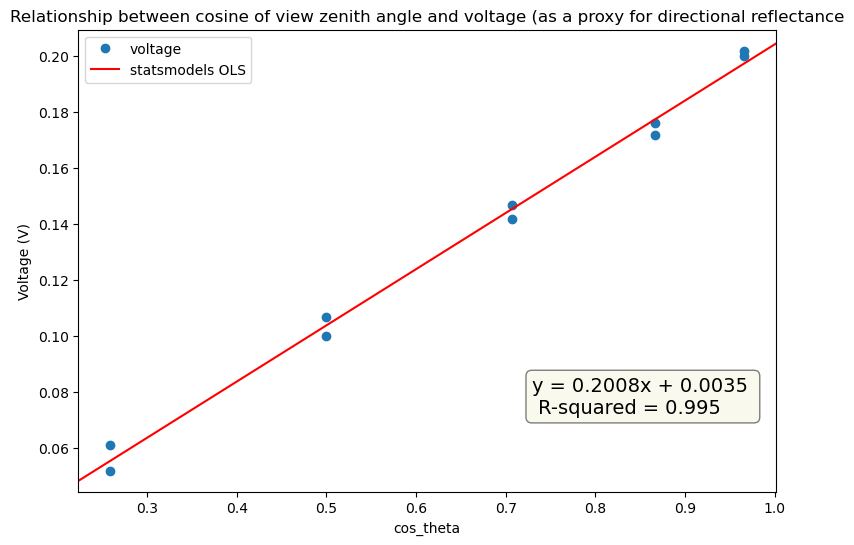
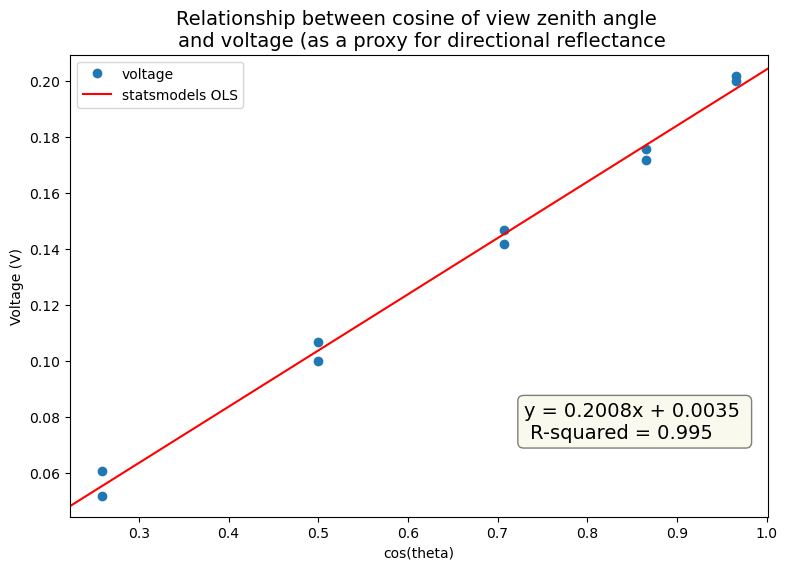
Update documentation

diff --git a/searchindex.js b/searchindex.js
@@ -1,1 +1,1 @@
-Search.setIndex({docnames:["intro","lab1","problem_set_1"],envversion:{"sphinx.domains.c":2,"sphinx.domains.changeset":1,"sphinx.domains.citation":1,"sphinx.domains.cpp":5,"sphinx.domains.index":1,"sphinx.domains.javascript":2,"sphinx.domains.math":2,"sphinx.domains.python":3,"sphinx.domains.rst":2,"sphinx.domains.std":2,"sphinx.ext.intersphinx":1,sphinx:56},filenames:["intro.md","lab1.ipynb","problem_set_1.ipynb"],objects:{},objnames:{},objtypes:{},terms:{"0":[1,2],"00":[],"000":1,"000000":1,"0001":2,"003481":1,"0035":1,"004":1,"005":1,"006":1,"007":1,"008":1,"01":[1,2],"010":1,"012":1,"017":1,"019":1,"02":2,"025":1,"03":1,"041":[1,2],"04116471848333":2,"044":1,"047198":1,"048":1,"05":[],"050":1,"052":1,"054321770295687744":2,"061":1,"066":1,"07":1,"08":2,"081":1,"083":1,"092":1,"093":1,"094":1,"095":1,"097":1,"098":1,"099":1,"0x7f1bf84b7ee0":[],"0x7f2415273040":1,"0x7f41754d3010":[],"0x7f5ecc253ee0":[],"10":[1,2],"100":[1,2],"100e":2,"1011":2,"1016":2,"1023":2,"103":1,"105":2,"107":1,"11":[1,2],"110":2,"111":1,"1150":2,"1150e":2,"12":2,"123":1,"125":1,"129":1,"13":2,"1316":2,"1333333333333333":2,"134":1,"135":1,"136":2,"1361":2,"136e12":2,"137":1,"14":[1,2],"1407":2,"142":1,"146":1,"147":1,"148":1,"1496":1,"15":[1,2],"150":1,"153":1,"154":1,"1541":1,"157":1,"159":1,"16":2,"162":1,"164":1,"165":1,"169":1,"17":2,"170":1,"172":[1,2],"176":1,"18":2,"180":1,"185":1,"186":1,"189":1,"192":1,"1e":2,"1e3":2,"20":[1,2],"200":1,"200763":1,"2008":1,"2008x":1,"2011":2,"202":1,"2022":[0,1,2],"205":2,"2058823529411763":2,"207":1,"209":1,"20e":1,"21":2,"213":1,"216":1,"22":2,"23":2,"232":1,"24365317128634":2,"245":1,"25":1,"254":1,"256":1,"2567107790346":2,"258819":1,"26":[1,2],"261":2,"261799":1,"27":[],"273":1,"28":2,"2861294661369":2,"294":1,"295":1,"296":1,"2pm":2,"30":1,"308997":1,"31":[1,2],"312":1,"34":[],"360":2,"365":2,"366666666666666":2,"371":1,"38":1,"39":2,"395":2,"3e":2,"3e8":2,"400e":2,"41":1,"411":1,"45":[1,2],"465":1,"47":2,"471e11":2,"479999999999999":2,"48":2,"496":2,"496e":2,"496e11":2,"500000":1,"51":2,"52":2,"521e11":2,"523599":1,"525013":2,"53":2,"57":[],"58":2,"60":[1,2],"609":2,"609e":2,"611":1,"6273857859353":2,"63":2,"65":1,"6541557351024":2,"6682229417395344":2,"668222941739536":2,"673":1,"68":2,"691":1,"7":2,"707107":1,"71":1,"715438793193172":2,"75":1,"764":2,"777":2,"78":[1,2],"785398":1,"79":1,"7cm":2,"8":[1,2],"80":2,"81":2,"8123738496865657":2,"827640809423416e":2,"83160146544657":2,"86":2,"866025":1,"87":2,"871":2,"877159276307219":2,"880":1,"88605907946422":2,"8e":2,"9":[1,2],"90":1,"948":1,"958750209019716":2,"965926":1,"975":1,"986":1,"994":1,"995":1,"\u03bcm":2,"const":1,"do":2,"float":2,"import":1,"return":2,"var":1,No:1,The:[1,2],Will:2,ab:2,abline_plot:1,abov:2,account:2,aco:2,across:1,add_const:1,add_subplot:1,adj:1,after:2,afternoon:2,ahead:2,aic:1,all:1,alpha:1,alwai:2,am:2,amount:2,an:1,angl:1,answer:2,anywai:1,aphelion_d:2,api:1,appear:1,appli:1,ar:1,aren:2,around:2,assum:[1,2],atan:2,ax:1,axi:1,axvlin:1,back:1,backscatt:1,bbox:1,bbox_to_anchor:1,becaus:[1,2],been:2,befor:2,beig:1,bera:1,best:1,beta:2,beta_gr:2,between:[1,2],bic:1,blue:1,both:1,box:1,boxstyl:1,brdf:1,btw:2,calc_azimuth:2,calc_declin:2,calc_irradi:2,calc_zenith:2,calc_zenith_slop:2,calcul:[0,2],can:2,caus:1,cell:1,center:1,centimet:2,centimeter2:2,central_meridian:2,chang:1,ci:1,cm:2,co:[1,2],coef:1,color:1,concat:1,cond:1,consid:1,construct:1,continu:1,convert:2,correct:2,correctli:1,cos_theta:[1,2],cos_theta_slop:2,cosin:[1,2],covari:1,cycl:2,d:2,d_aphelion:2,d_perihelion:2,dai:2,datafram:1,date:[1,2],datetim:2,decim:2,declin:2,def:[1,2],defin:1,deg:[1,2],degre:[1,2],delta:2,delta_oct7:2,dennison:0,dep:1,depend:1,dept:0,depth:1,df:1,dict:1,differ:[1,2],displai:1,distanc:2,doi:2,don:2,drop:1,dst:2,dt:2,dtype:1,durbin:1,e:2,e_10am:2,e_2pm:2,e_2pm_slop:2,e_nought:2,e_s_mean:2,e_solar_noon:2,e_theta:2,earth:2,em:2,emma:[0,1,2],emmamarshal:1,env:1,eqat:2,eqn:2,equat:2,equation_of_tim:2,eric:1,err:1,error:1,et:2,et_oct7:2,et_tim:2,exemplifi:1,exposur:2,f:1,face:2,facecolor:1,fall:0,fig:1,figsiz:1,figur:[1,2],find:2,first:2,fit:1,fix:1,float64:1,follow:1,fontsiz:1,format:[1,2],found:2,frequenc:2,from:[1,2],g:1,galleri:1,geog:0,give:2,gold:1,good:1,goodwin:1,gr_azimuth_6pm:2,gr_theta_10a:2,gr_zenith_6pm:2,graphic:1,gravel:1,gravel_source30:1,gravel_source45:1,green:[1,2],group:1,handl:2,have:2,head:1,higher:1,home:1,hour:2,hour_angl:2,hour_angle_10a:2,hour_angle_2p:2,hour_angle_tim:2,how:1,hr:2,html:1,http:1,hz:2,i:[1,2],incorrect:2,increas:1,independ:1,input_quant:2,isotrop:1,j:2,j_oct7:2,jarqu:1,jb:1,kopp:2,kurtosi:1,kurtosistest:1,kyli:1,l_lambda:2,l_v:2,label:1,lambda:[1,2],lambda_1:2,lambda_2:2,lambda_gr:2,lambert:2,law:2,lean:2,least:1,lectur:0,legend:1,len:1,lib:1,light:1,light_zenith:1,likelihood:1,linear:1,linestyl:1,linewidth:1,linregress:1,loc:[1,2],log:1,longitude_adjust:2,longitude_offset:2,lower:1,m:2,marker:1,markers:1,marshal:[0,1,2],materi:1,math:[1,2],matplotlib:1,matrix:1,max_theta:1,mean:2,meter2:2,meter3:2,meter:2,method:1,microsecond:2,min:2,min_theta:1,miniconda3:1,minimum:2,minuet:2,minut:2,model:1,model_result:1,mon:1,more:1,most:1,n:[1,2],name:2,nan:1,nanomet:2,nearli:1,need:2,neg:2,nm:2,none:1,nonrobust:1,note:[0,1],now:2,np:[1,2],numpi:[1,2],o:1,observ:1,occur:2,octob:2,ol:1,omnibu:1,onli:1,optic:1,orang:[],org:1,out:2,overal:1,p:1,packag:1,panda:1,paper:2,param:1,pattern:1,pd:1,perihelion_d:2,phi:2,phi_2pm:2,phi_deg:2,phi_oct7_solar_noon:2,phil:0,pi:2,pint:2,place:1,placing_text_box:1,plai:2,plot:1,plt:1,polar:1,polar_plot_one_source_angl:1,posit:[1,2],predictor:1,print:2,prob:[1,2],produc:1,profil:1,project:1,prop:1,proxi:1,purpl:1,py:1,pyplot:1,python3:1,python:2,quantiti:2,quit:2,r:1,radian:[1,2],radianc:2,radiant_flux:2,random:1,rang:1,read:0,recip:1,red:1,ree:1,region:2,regplot:1,regress:1,regressionplot:1,rel:1,relationship:1,remot:0,residu:1,result:1,right:1,river:2,rock:1,rocks_source30:1,rocks_source45:1,rotat:1,rough:1,round:[1,2],row:1,s:[0,1],same:2,sand:1,sand_source30:1,sand_source45:1,scatter:1,scenario:1,sci_not:2,scipi:1,seaborn:1,sec:2,second:2,sens:0,sep:1,set:0,set_label_coord:1,set_rlim:1,set_theta_direct:1,set_theta_zero_loc:1,set_thetamax:1,set_thetamin:1,set_titl:1,set_xlabel:1,set_ylabel:1,shade:1,should:2,show:1,sigma:2,sigma_aphelion:2,sigma_perihelion:2,signal:1,similar:1,sin:[1,2],site:1,skew:1,slightli:1,slope:2,sm:1,smooth:1,sn:1,so:[1,2],solv:2,some:2,sourc:1,source_30:1,source_45:1,source_zenith_angl:1,sp:1,specifi:1,spectral:2,spectrum:2,specular:1,squar:1,sr:2,standard:1,stat:1,statist:1,statsmodel:1,std:1,steradian:2,str:2,subplot:1,summari:1,sunspot:2,surfac:[1,2],swir:2,t:[1,2],tabl:1,table3:1,take:2,tan_phi:2,target:2,taught:0,text:1,than:1,theta:[1,2],theta_10am:2,theta_2pm:2,theta_deg:2,theta_oct7_solar_noon:2,think:1,thz:2,time:[1,2],time_diff_10a:2,time_diff_2p:2,timedelta:2,toa_:2,top:1,toward:1,transax:1,transform:1,type:1,um:2,unit:2,unitregistri:2,univers:0,upper:1,ureg:2,us:2,userwarn:1,utah:0,v1:2,v:[1,2],v_2:2,valid:1,variabl:1,ve:2,veri:1,verticalalign:1,view:1,view_zenith:1,view_zeniths_source30:1,view_zeniths_source45:1,voltag:1,volum:1,w:[1,2],want:2,warn:1,water:1,water_source30:1,water_source45:1,watson:1,wavelength:[1,2],wavenumb:2,we:2,when:[1,2],which:2,within:[1,2],wm2:2,wm:2,worksheet:1,x:1,xaxi:1,xxxx:2,y:1,yaxi:1,year:2,yet:2,ymax:1,ymin:1,zenith:1,zone:2},titles:["Advanced Optics coursework","Lab 1","Problem set 1"],titleterms:{"1":[1,2],"1011m":2,"2":[1,2],"3":[1,2],"30":2,"4":[1,2],"471":2,"5":[1,2],"521":2,"6":[1,2],"7":1,"function":2,"import":2,It:2,advanc:0,angl:2,aphelion:2,azimuth:2,b:2,base:2,big:2,br:2,c:2,coursework:0,data:1,defin:2,direct:1,e0:2,exoatmospher:2,flux:2,hint:2,irradi:2,lab:1,noon:2,number:2,optic:0,packag:2,perihelion:2,pm:2,problem:2,question:1,radiant:2,ratio:2,read:1,reflect:1,s:2,set:2,solar:2,sun:2,thi:2,valu:2,watt:2,what:2,x:2,zenith:2,zentih:2}})
+Search.setIndex({docnames:["intro","lab1","problem_set_1"],envversion:{"sphinx.domains.c":2,"sphinx.domains.changeset":1,"sphinx.domains.citation":1,"sphinx.domains.cpp":5,"sphinx.domains.index":1,"sphinx.domains.javascript":2,"sphinx.domains.math":2,"sphinx.domains.python":3,"sphinx.domains.rst":2,"sphinx.domains.std":2,"sphinx.ext.intersphinx":1,sphinx:56},filenames:["intro.md","lab1.ipynb","problem_set_1.ipynb"],objects:{},objnames:{},objtypes:{},terms:{"0":[1,2],"00":[],"000":1,"000000":1,"0001":2,"003481":1,"0035":1,"004":1,"005":1,"006":1,"007":1,"008":1,"01":[1,2],"010":1,"012":1,"017":1,"019":1,"02":2,"025":1,"03":[],"041":[1,2],"04116471848333":2,"044":1,"047198":1,"048":1,"05":[],"050":1,"052":1,"054321770295687744":2,"061":1,"066":1,"07":1,"08":2,"081":1,"083":1,"092":1,"093":1,"094":1,"095":1,"097":1,"098":1,"099":1,"0x7f13e880f310":1,"0x7f1bf84b7ee0":[],"0x7f2415273040":[],"0x7f41754d3010":[],"0x7f5ecc253ee0":[],"10":[1,2],"100":[1,2],"100e":2,"1011":2,"1016":2,"1023":2,"103":1,"105":2,"107":1,"11":[1,2],"110":2,"111":1,"1150":2,"1150e":2,"12":2,"123":1,"125":1,"129":1,"13":[1,2],"1316":2,"1333333333333333":2,"134":1,"135":1,"136":2,"1361":2,"136e12":2,"137":1,"14":[1,2],"1407":2,"142":1,"146":1,"147":1,"148":1,"1496":1,"15":[1,2],"150":1,"153":1,"154":1,"1541":1,"157":1,"159":1,"16":2,"162":1,"164":1,"165":1,"169":1,"17":2,"170":1,"172":[1,2],"176":1,"18":2,"180":1,"185":1,"186":1,"189":1,"192":1,"1e":2,"1e3":2,"20":[1,2],"200":1,"200763":1,"2008":1,"2008x":1,"2011":2,"202":1,"2022":[0,1,2],"205":2,"2058823529411763":2,"207":1,"209":1,"20e":1,"21":2,"213":1,"216":1,"22":2,"23":[1,2],"232":1,"24365317128634":2,"245":1,"25":1,"254":1,"256":1,"2567107790346":2,"258819":1,"26":[1,2],"261":2,"261799":1,"27":[],"273":1,"28":2,"2861294661369":2,"294":1,"295":1,"296":1,"2pm":2,"30":1,"308997":1,"31":2,"312":1,"34":[],"360":2,"365":2,"366666666666666":2,"371":1,"38":1,"39":2,"395":2,"3e":2,"3e8":2,"400e":2,"41":1,"411":1,"45":[1,2],"465":1,"47":2,"471e11":2,"479999999999999":2,"48":2,"496":2,"496e":2,"496e11":2,"500000":1,"51":2,"52":2,"521e11":2,"523599":1,"525013":2,"53":2,"57":1,"58":2,"60":[1,2],"609":2,"609e":2,"611":1,"6273857859353":2,"63":2,"65":1,"6541557351024":2,"6682229417395344":2,"668222941739536":2,"673":1,"68":2,"691":1,"7":2,"707107":1,"71":1,"715438793193172":2,"75":1,"764":2,"777":2,"78":[1,2],"785398":1,"79":1,"7cm":2,"8":[1,2],"80":2,"81":2,"8123738496865657":2,"827640809423416e":2,"83160146544657":2,"86":2,"866025":1,"87":2,"871":2,"877159276307219":2,"880":1,"88605907946422":2,"8e":2,"9":[1,2],"90":1,"948":1,"958750209019716":2,"965926":1,"975":1,"986":1,"994":1,"995":1,"\u03bcm":2,"const":1,"do":2,"float":2,"import":1,"return":2,"var":1,No:1,The:[1,2],Will:2,ab:2,abline_plot:1,abov:2,account:2,aco:2,across:1,add_const:1,add_subplot:1,adj:1,after:2,afternoon:2,ahead:2,aic:1,all:1,alpha:1,alwai:2,am:2,amount:2,an:1,angl:1,answer:2,anywai:1,aphelion_d:2,api:1,appear:1,appli:1,ar:1,aren:2,around:2,assum:[1,2],atan:2,ax:1,axi:1,axvlin:1,back:1,backscatt:1,bbox:1,bbox_to_anchor:1,becaus:[1,2],been:2,befor:2,beig:1,bera:1,best:1,beta:2,beta_gr:2,between:[1,2],bic:1,blue:1,both:1,box:1,boxstyl:1,brdf:1,btw:2,calc_azimuth:2,calc_declin:2,calc_irradi:2,calc_zenith:2,calc_zenith_slop:2,calcul:[0,2],can:2,caus:1,cell:1,center:1,centimet:2,centimeter2:2,central_meridian:2,chang:1,ci:1,cm:2,co:[1,2],coef:1,color:1,concat:1,cond:1,consid:1,construct:1,continu:1,convert:2,correct:2,correctli:1,cos_theta:[1,2],cos_theta_slop:2,cosin:[1,2],covari:1,cycl:2,d:2,d_aphelion:2,d_perihelion:2,dai:2,datafram:1,date:[1,2],datetim:2,decim:2,declin:2,def:[1,2],defin:1,deg:[1,2],degre:[1,2],delta:2,delta_oct7:2,dennison:0,dep:1,depend:1,dept:0,depth:1,df:1,dict:1,differ:[1,2],displai:1,distanc:2,doi:2,don:2,drop:1,dst:2,dt:2,dtype:1,durbin:1,e:2,e_10am:2,e_2pm:2,e_2pm_slop:2,e_nought:2,e_s_mean:2,e_solar_noon:2,e_theta:2,earth:2,em:2,emma:[0,1,2],emmamarshal:1,env:1,eqat:2,eqn:2,equat:2,equation_of_tim:2,eric:1,err:1,error:1,et:2,et_oct7:2,et_tim:2,exemplifi:1,exposur:2,f:1,face:2,facecolor:1,fall:0,fig:1,figsiz:1,figur:[1,2],find:2,first:2,fit:1,fix:1,float64:1,follow:1,fontsiz:1,format:[1,2],found:2,frequenc:2,from:[1,2],g:1,galleri:1,geog:0,give:2,gold:1,good:1,goodwin:1,gr_azimuth_6pm:2,gr_theta_10a:2,gr_zenith_6pm:2,graphic:1,gravel:1,gravel_source30:1,gravel_source45:1,green:[1,2],group:1,handl:2,have:2,head:1,higher:1,home:1,hour:2,hour_angl:2,hour_angle_10a:2,hour_angle_2p:2,hour_angle_tim:2,how:1,hr:2,html:1,http:1,hz:2,i:[1,2],incorrect:2,increas:1,independ:1,input_quant:2,isotrop:1,j:2,j_oct7:2,jarqu:1,jb:1,kopp:2,kurtosi:1,kurtosistest:1,kyli:1,l_lambda:2,l_v:2,label:1,lambda:[1,2],lambda_1:2,lambda_2:2,lambda_gr:2,lambert:2,law:2,lean:2,least:1,lectur:0,legend:1,len:1,lib:1,light:1,light_zenith:1,likelihood:1,linear:1,linestyl:1,linewidth:1,linregress:1,loc:[1,2],log:1,longitude_adjust:2,longitude_offset:2,lower:1,m:2,marker:1,markers:1,marshal:[0,1,2],materi:1,math:[1,2],matplotlib:1,matrix:1,max_theta:1,mean:2,meter2:2,meter3:2,meter:2,method:1,microsecond:2,min:2,min_theta:1,miniconda3:1,minimum:2,minuet:2,minut:2,model:1,model_result:1,mon:1,more:1,most:1,n:[1,2],name:2,nan:1,nanomet:2,nearli:1,need:2,neg:2,nm:2,none:1,nonrobust:1,note:[0,1],now:2,np:[1,2],numpi:[1,2],o:1,observ:1,occur:2,octob:2,ol:1,omnibu:1,onli:1,optic:1,orang:[],org:1,out:2,overal:1,p:1,packag:1,panda:1,paper:2,param:1,pattern:1,pd:1,perihelion_d:2,phi:2,phi_2pm:2,phi_deg:2,phi_oct7_solar_noon:2,phil:0,pi:2,pint:2,place:1,placing_text_box:1,plai:2,plot:1,plt:1,polar:1,polar_plot_one_source_angl:1,posit:[1,2],predictor:1,print:2,prob:[1,2],produc:1,profil:1,project:1,prop:1,proxi:1,purpl:1,py:1,pyplot:1,python3:1,python:2,quantiti:2,quit:2,r:1,radian:[1,2],radianc:2,radiant_flux:2,random:1,rang:1,read:0,recip:1,red:1,ree:1,region:2,regplot:1,regress:1,regressionplot:1,rel:1,relationship:1,remot:0,residu:1,result:1,right:1,river:2,rock:1,rocks_source30:1,rocks_source45:1,rotat:1,rough:1,round:[1,2],row:1,s:[0,1],same:2,sand:1,sand_source30:1,sand_source45:1,scatter:1,scenario:1,sci_not:2,scipi:1,seaborn:1,sec:2,second:2,sens:0,sep:1,set:0,set_label_coord:1,set_rlim:1,set_theta_direct:1,set_theta_zero_loc:1,set_thetamax:1,set_thetamin:1,set_titl:1,set_xlabel:1,set_ylabel:1,shade:1,should:2,show:1,sigma:2,sigma_aphelion:2,sigma_perihelion:2,signal:1,similar:1,sin:[1,2],site:1,skew:1,slightli:1,slope:2,sm:1,smooth:1,sn:1,so:[1,2],solv:2,some:2,sourc:1,source_30:1,source_45:1,source_zenith_angl:1,sp:1,specifi:1,spectral:2,spectrum:2,specular:1,squar:1,sr:2,standard:1,stat:1,statist:1,statsmodel:1,std:1,steradian:2,str:2,subplot:1,summari:1,sunspot:2,surfac:[1,2],swir:2,t:[1,2],tabl:1,table3:1,take:2,tan_phi:2,target:2,taught:0,text:1,than:1,theta:[1,2],theta_10am:2,theta_2pm:2,theta_deg:2,theta_oct7_solar_noon:2,think:1,thz:2,time:[1,2],time_diff_10a:2,time_diff_2p:2,timedelta:2,toa_:2,top:1,toward:1,transax:1,transform:1,type:1,um:2,unit:2,unitregistri:2,univers:0,upper:1,ureg:2,us:2,userwarn:1,utah:0,v1:2,v:[1,2],v_2:2,valid:1,variabl:1,ve:2,veri:1,verticalalign:1,view:1,view_zenith:1,view_zeniths_source30:1,view_zeniths_source45:1,voltag:1,volum:1,w:[1,2],want:2,warn:1,water:1,water_source30:1,water_source45:1,watson:1,wavelength:[1,2],wavenumb:2,we:2,when:[1,2],which:2,within:[1,2],wm2:2,wm:2,worksheet:1,x:1,xaxi:1,xxxx:2,y:1,yaxi:1,year:2,yet:2,ymax:1,ymin:1,zenith:1,zone:2},titles:["Advanced Optics coursework","Lab 1","Problem set 1"],titleterms:{"1":[1,2],"1011m":2,"2":[1,2],"3":[1,2],"30":2,"4":[1,2],"471":2,"5":[1,2],"521":2,"6":[1,2],"7":1,"function":2,"import":2,It:2,advanc:0,angl:2,aphelion:2,azimuth:2,b:2,base:2,big:2,br:2,c:2,coursework:0,data:1,defin:2,direct:1,e0:2,exoatmospher:2,flux:2,hint:2,irradi:2,lab:1,noon:2,number:2,optic:0,packag:2,perihelion:2,pm:2,problem:2,question:1,radiant:2,ratio:2,read:1,reflect:1,s:2,set:2,solar:2,sun:2,thi:2,valu:2,watt:2,what:2,x:2,zenith:2,zentih:2}})

diff --git a/lab1.html b/lab1.html
@@ -1199,7 +1199,7 @@ dtype: float64
   <th>Date:</th>             <td>Mon, 26 Sep 2022</td> <th>  Prob (F-statistic):</th> <td>2.20e-10</td>
 </tr>
 <tr>
-  <th>Time:</th>                 <td>11:31:03</td>     <th>  Log-Likelihood:    </th> <td>  41.691</td>
+  <th>Time:</th>                 <td>13:23:57</td>     <th>  Log-Likelihood:    </th> <td>  41.691</td>
 </tr>
 <tr>
   <th>No. Observations:</th>      <td>    10</td>      <th>  AIC:               </th> <td>  -79.38</td>
@@ -1254,13 +1254,14 @@ dtype: float64
 <span class="n">ax</span><span class="o">.</span><span class="n">text</span><span class="p">(</span><span class="mf">0.65</span><span class="p">,</span> <span class="mf">0.25</span><span class="p">,</span> <span class="n">text</span><span class="p">,</span> <span class="n">transform</span><span class="o">=</span><span class="n">ax</span><span class="o">.</span><span class="n">transAxes</span><span class="p">,</span> <span class="n">fontsize</span><span class="o">=</span><span class="mi">14</span><span class="p">,</span>
         <span class="n">verticalalignment</span><span class="o">=</span><span class="s1">&#39;top&#39;</span><span class="p">,</span> <span class="n">bbox</span><span class="o">=</span><span class="n">props</span><span class="p">)</span>
 <span class="n">ax</span><span class="o">.</span><span class="n">set_ylabel</span><span class="p">(</span><span class="s1">&#39;Voltage (V)&#39;</span><span class="p">)</span>
-<span class="n">ax</span><span class="o">.</span><span class="n">set_title</span><span class="p">(</span><span class="s1">&#39;Relationship between cosine of view zenith angle and voltage (as a proxy for directional reflectance&#39;</span><span class="p">)</span>
+<span class="n">ax</span><span class="o">.</span><span class="n">set_xlabel</span><span class="p">(</span><span class="s1">&#39;cos(theta)&#39;</span><span class="p">)</span>
+<span class="n">ax</span><span class="o">.</span><span class="n">set_title</span><span class="p">(</span><span class="s1">&#39;Relationship between cosine of view zenith angle </span><span class="se">\n</span><span class="s1"> and voltage (as a proxy for directional reflectance&#39;</span><span class="p">,</span> <span class="n">fontsize</span><span class="o">=</span><span class="mi">14</span><span class="p">)</span>
 <span class="n">ax</span><span class="o">.</span><span class="n">legend</span><span class="p">()</span>
 </pre></div>
 </div>
 </div>
 <div class="cell_output docutils container">
-<div class="output text_plain highlight-myst-ansi notranslate"><div class="highlight"><pre><span></span>&lt;matplotlib.legend.Legend at 0x7f2415273040&gt;
+<div class="output text_plain highlight-myst-ansi notranslate"><div class="highlight"><pre><span></span>&lt;matplotlib.legend.Legend at 0x7f13e880f310&gt;
 </pre></div>
 </div>
 <img alt="_images/lab1_40_1.png" src="_images/lab1_40_1.png" />
